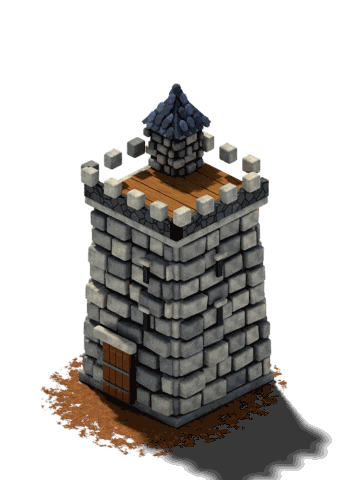
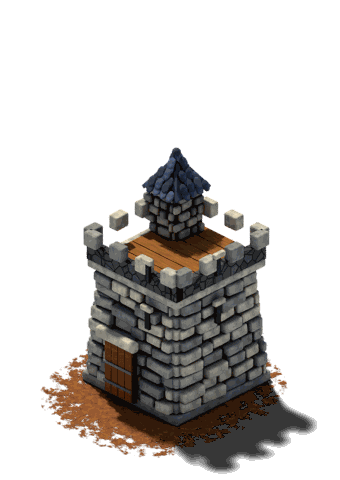
Proportions: lower towers and lookout, smaller 3D settlers
The small tower, big tower and lookout were modelled about twice as tall
as wide and towered over the houses; they are now about 1.5-2x a house's
height (banner anchors updated). 3D settler figures are drawn at 0.72 of
their render size, so a settler is about a third as tall as a small
house, as in Settlers 4.

Changed region(s): [[0.2353, 0.1562, 0.9706, 1.0]]

diff --git a/src/render/art3d.ts b/src/render/art3d.ts
@@ -44,6 +44,9 @@ export interface Art3d {
 /** Frames of the 3D mill sails over a quarter turn (`SAIL_FRAMES` in buildings.py); same canvas as the mill. */
 export const MILL_SAIL_FRAMES = 12;
 
+/** Scale of the 3D settler figures on screen: rendered large for detail, shown at S4 proportions (a settler about a third as tall as a small house). */
+export const SETTLER_3D_SCALE = 0.72;
+
 /** Construction stages rendered per building (`STAGES` in build.py): 0 stakes … 3 roof half on. */
 export const ART3D_STAGES = 4;
 /**
@@ -95,10 +98,10 @@ export const ART3D_STAGED = Object.keys(ART3D_BUILDINGS);
  * by buildings.py's `note_banner` when it renders); replaces `BANNERS` in `sprites.ts` under `?art=3d`.
  */
 export const ART3D_BANNERS: Record<string, { x: number; y: number }> = {
-  tower: { x: 3.2, y: -73.3 },
+  tower: { x: 3.2, y: -49.8 },
   castle: { x: 1.6, y: -101.7 },
   fortress: { x: 12.8, y: -67.9 },
-  bigtower: { x: 4.2, y: -89.3 },
+  bigtower: { x: 4.2, y: -58.0 },
 };
 /**
  * Live-effect anchors of 3D buildings, from the sprite anchor (printed by buildings.py's `note_fx`

diff --git a/src/render/renderer.ts b/src/render/renderer.ts
@@ -31,7 +31,7 @@ import { AnimalLayer } from './animals';
 import { setFrame, type Settler3d } from './settler3d';
 import { BODY_STAND, BODY_WORK, CARRY_AT } from './settlerArt';
 import { depthOf, HALF_H, HALF_W, toScreen, toTile } from './iso';
-import { ART3D_BANNERS, ART3D_STAGES, ART3D_YARDS, PILE_MAX } from './art3d';
+import { ART3D_BANNERS, ART3D_STAGES, ART3D_YARDS, PILE_MAX, SETTLER_3D_SCALE } from './art3d';
 
 /** Goods kinds shown on an open storage yard, and the ring they stand on (screen px from its centre). */
 const YARD_KINDS = 8;
@@ -1505,7 +1505,8 @@ export class GameRenderer {
         v.hat.visible = hat !== null;
         if (hat) setFrame(v.hat, hat);
         v.head.visible = v.arm.visible = false;
-        v.root.scale.x = 1;
+        // The 3D figure is rendered large for detail; shrunk to Settlers 4 proportions next to buildings.
+        v.root.scale.set(SETTLER_3D_SCALE, SETTLER_3D_SCALE);
         const away = s3d.carryBehind[shown];
         if (away !== v.armBehind) {
           v.armBehind = away;

diff --git a/art/blender/buildings.py b/art/blender/buildings.py
@@ -487,7 +487,7 @@ def build_tower():
     earth_pad((0.12, -0.18, 0), 0.82, 0.92, seed=21)
     lib.tag(0)
 
-    cx, cy, s0, s1, H = 0.05, 0.05, 1.22, 0.98, 1.75  # base width at the foot and the top, height
+    cx, cy, s0, s1, H = 0.05, 0.05, 1.12, 0.94, 1.15  # base width at the foot and the top, height
     corner_stakes(cx - s0 / 2, cx + s0 / 2, cy - s0 / 2, cy + s0 / 2)
     lib.tag(0, until=0)
 
@@ -2566,7 +2566,7 @@ def build_bigtower():
     corner_stakes(-0.8, 0.8, -0.8, 0.8)
     lib.tag(0, until=0)
 
-    cx, cy, s0, s1, H = 0.05, 0.05, 1.42, 1.22, 2.25
+    cx, cy, s0, s1, H = 0.05, 0.05, 1.36, 1.18, 1.45
     lib.box((cx, cy, 0.06), (s0 + 0.12, s0 + 0.12, 0.12), blocks[1], bevel=0.02)
     lib.tag(1)
     scaffold(cx - s0 / 2 - 0.1, cx + s0 / 2 + 0.1, cy - s0 / 2 - 0.1, cy + s0 / 2 + 0.1, 2.0, beam)
@@ -2627,7 +2627,7 @@ def build_lookout():
     corner_stakes(-0.6, 0.6, -0.6, 0.6)
     lib.tag(0, until=0)
 
-    H, b0, b1 = 2.05, 0.6, 0.34  # platform height, half-spread at the foot and at the top
+    H, b0, b1 = 1.3, 0.55, 0.34  # platform height, half-spread at the foot and at the top
     feet = [(-b0, -b0), (b0, -b0), (b0, b0), (-b0, b0)]
     heads = [(-b1, -b1), (b1, -b1), (b1, b1), (-b1, b1)]
     for (x, y) in feet:

diff --git a/CLAUDE.md b/CLAUDE.md
@@ -92,7 +92,7 @@ Three layers with one-way dependencies: `ui → render → sim`, plus `src/audio
 - **Chunk unloading** (what makes 1024×1024 hold): `unloadHiddenChunks` (twice a second) gives back the render data of built chunks out of view for `UNLOAD_AFTER_MS` — or of any hidden ones while more than `MAX_READY_CHUNKS` are built — down to `KEEP_CHUNKS`: ground layer, boulders (`boulders[c]`), trees, deposits, signs, field and path decals (their per-tile states reset so `syncChangedTiles` recreates them; `chunkSeen[c] = −1`), the territory `Graphics` (replaced by a fresh one, `territoryPending`), the fog mesh/texture/canvas and the water glints (`Effects.unloadChunk`); `chunkReady[c] = 0` and `ensureChunk` rebuilds on sight. Buildings and settlers stay. **Pixi frees less than it seems:** `mesh.destroy()` keeps the geometry and its GPU buffers, `graphics.destroy({ children: true })` keeps the drawing context — free them with `disposeMesh` (geometry `destroy(true)`) and `disposeLayer` (`destroy({ context: true })`). Anything per-chunk you add must be released in `unloadChunk` too.
 - **Lazy chunks** (what makes 512×512 start fast): `buildGround` only records heights; a chunk's ground mesh, boulders and territory are built by `ensureChunk` the first time it becomes visible (`chunkReady`), at most `CHUNK_BUILDS_PER_FRAME` per frame so a zoom-out never hitches. Tile objects (trees, deposits, fields) are synced only for visible chunks — `syncChangedTiles` leaves a hidden chunk's version stale and catches up when it scrolls in; territory for unbuilt chunks is deferred via `territoryPending`. Anything per-chunk you add must be built in `ensureChunk` and tolerate a chunk that was never built.
 - All art is procedural: painters in `sprites.ts` draw with Canvas 2D, and `SpriteAtlas` (`atlas.ts`) packs them into 2× resolution canvas pages (a new page starts when one fills; the last page is cut to the rows it uses) with `defaultAnchor` set per frame. Most buildings are described by a `Style` in `STYLES` (walls, roof, floors, decorations like chimney/well/pen) painted by `paintStyled`; only special shapes (castle, mill, tower…) have hand-written painters. Fields are flat decals added to their chunk's ground container. Building painters draw around the **footprint center as origin** and use the `P(dx, dy, z)` helper (tile-unit offsets plus pixel height); their canvas size and anchor live in `BUILDING_CANVAS`. Construction progress is shown by cropping the building texture from the top (`bottomPart`). To add a sprite, write a painter and register it in the `SpriteAtlas` constructor.
-- **3D art** (the default; `?art=classic` keeps the procedural painters below): `art/blender/build.py` (helpers in `lib.py`) builds models with bpy and renders them with an orthographic camera matching `iso.ts` (rot 60°/0/45°, world X = tile x, world Y = −tile y, `PX_PER_UNIT` logical px per tile unit, 2× resolution, Cycles, shadow catcher on a transparent background, palette written in sRGB and converted by `lib.lin`) into `public/art/3d`; run `npm run art:render [-- names]` (Blender 5.x on PATH). Each sprite keeps the size/anchor convention of the procedural sprite it replaces (`ART3D_SPRITES` in `art3d.ts` must match `SINGLE` in `build.py`). `main.ts` loads them (`loadArt3d`) and `SpriteAtlas` re-registers them under the procedural keys (`building:woodcutter`, `tree:*`, `deposit:*`, `ware:log`); **Settlers** (`art/blender/figures.py`, `npm run art:settlers`: renders on the CPU, ~15 min, caches each pose group in `art/.tmp/settlers-cache` so an interrupted run resumes, then `art/tools/quantize.py` (Pillow) turns the pages into 256-colour PNGs, ~6× smaller; one Blender at a time): one stocky figure on pivots (hips, shoulders, a tool grip per hand) posed per group — `hold:<tool>` (walk frames, then standing) for every `TOOLS` shape incl. `carry`, `work:<action>` (4 frames) for every `ACTIONS` entry; the tables at the top of figures.py mirror `animConfig.ts` (tool per action, arm angles), and swords/bows also show what is worn with them (shield, leather armour, quiver). Each frame renders twice: full colour, and a mask pass (material override with an emission of the object property `mask`: tunic, sleeves, shield face) that becomes the tintable copy; hats are a separate layer per `HAT_STYLES` style and direction (rendered with the body as a holdout). Frames are trimmed and shelf-packed into `settlers-<k>.png` pages; `settlers.json` has each frame's rect and anchor, the group tables, hats, `carryAt`/`carryBehind` and `rankY`. `settler3d.ts` turns it into textures once (`buildSettler3d`, `ImageSource` per page); `syncSettlers` then draws body = full frame, tunic sprite = tint frame (owner's colour for everyone under `?art=3d`, as in S4), hat = hat layer (profession colour), all 8 directions painted (no mirroring), swapping textures with `setFrame` (copies the anchor). A new profession needs no rendering unless it brings a new tool or action. Read hand positions from the evaluated depsgraph, and call `view_layer.update()` before parenting parts to pivots, or offsets double. The look follows Settlers 4 (reference: in-game shots at settlers4-hd.com, kept out of the repo): `mat_stones` (Voronoi fieldstone), `mat_tiles` (terracotta), `mat_grain` (wood, thatch, bark, earth), `mat_leaves`, `apply_ao` (base colour × AO in every material) and `clean_alpha` post-processing (saturation, contrast, unsharp); buildings stand on a trodden-earth `pad` (solid core, then a noisy alpha fringe from a per-vertex `edge` attribute plus two noises, so the earth breaks up into the game's grass instead of ending in a line); `transform_apply` must keep location (`location=False`), or origins jump to the world origin. **Animals** (`art/blender/animals.py`, `npm run art:animals`, CPU, 4 threads): one sheet per kind, `animal-<kind>.png`, 8 rows in `DIRS` order × `ANIMAL_COLUMNS` (walk 0..3, stand, graze), cells = `ANIMAL_CELLS` in `animalArt.ts`, quantised to 256 colours; loading is optional, a kind without a sheet uses the procedural painter (`paintAnimal`), which is also the default art. `AnimalLayer` (`render/animals.ts`) draws one sprite per animal among the objects, only on screen and (fog on) only where the local player has sight. Style notes from the original (and what we deliberately do not copy, e.g. outlines) live in `docs/ART-STYLE.md`; reference screenshots stay in the git-ignored `examples/`. Quarry stone is `lib.spire` columns with `mat_crystal`. Building models beyond the woodcutter live in `art/blender/buildings.py` (sawmill, stonecutter, tower, house_large; shared helpers such as `log_cabin`, `plank_roof`, `stakes`, `timber_frame` are reached through `__main__`, i.e. build.py), modelled after close-ups of the original buildings (git-ignored `examples/ref-<type>.png`), with `stone_course` (rugged blocks of mixed tones over a dark core), `quoins` (staggered corner stones), `coping_line` (wall-top stones), `plank_walls`, `panel_slope` (riveted plank panels) and `scale_roof` (rounded slate scales or square terracotta tiles), plus general roof pieces — `place_on` (orient an object by two axes), `tile_face` (scales/tiles over any quad or triangle roof face, kept inside its edges), `hip_roof`, `cone_tiles` —, `round_tower`, `stepped_gable_x/_y`, `rivet_vault` (riveted furnace), mine pieces (`rock_pad`, `hill`, `adit`, `rails`, `cart`) and `scale_scene` (the medium house is the old three-block house model scaled to 2×2 by parenting everything to a scaled empty); eyecatchers use the 1-tile `DECOR` canvas (80×120); `ART3D_BUILDINGS` in `art3d.ts` lists every 3D building with its canvas (= `BUILDING_CANVAS`, = `SINGLE` in build.py), and all of them have stages. Live-effect anchors of 3D buildings (chimney smoke, oven glow, the mill's sail hub — the sails stay the game's rotating sprite) are recorded by `note_fx` while rendering and copied into `ART3D_FX`, which `Effects.anchorsOf` prefers to `buildingFxAnchors` under `?art=3d`. The 3D warehouse is an open paved yard (`ART3D_YARDS`): `syncYard` draws its stock on the platform — the `YARD_KINDS` most plentiful goods, one `pile:<res>:<n>` each, round the ring (pile sprites live in the building's `front` container, which chunk unloading keeps). A 3D military building records where its banner pole stands (`note_banner` prints it while rendering) in `ART3D_BANNERS`, which overrides `BANNERS` under `?art=3d` (tower, bigtower, fortress, castle; the lookout has no garrison and shows only the roof flag). Every building type is now 3D; the military/HQ models use `battlements` (merlons along chosen edges), `square_keep` (faced block with quoins), `slit`, `gate` and `scaffold` (stage-1 poles). The mill's sails under `?art=3d` are pre-rendered too: `buildings.render_mill_sails` (`npm run art:render -- millsails`) renders `MILL_SAIL_FRAMES` frames of a quarter turn on the mill's own canvas into the strip `millsails.png`; the atlas registers them as `sails3d:<k>` and `Effects` flips through them by the sails' angle instead of rotating the flat `fx:sails` sprite. HTML icons (`buildingIcon`, `wareIcon`, `settlerIcon` in `atlas.ts`) use the 3D images when loaded, cropped to their opaque bounds. **Ground textures** (`art/textures/ground.py`, `npm run art:ground`, runs in Blender for numpy): `KINDS` maps every ground kind to a generator and a period (grass 8 tiles, the rest 4 — every ground diamond plus the transition overlays must fit one atlas page); `ground.json` lists `kinds` with their periods, plus the `fields` decal strips (`fields-<crop>.png`, a 66×40 frame per growth stage, registered as `field:<crop>:<stage>`) and the `paths` strips (`path-<level>.png`, 80×44 frames, `path:<level>:<v>`), all generated here too. Trees and ground props come from `art/blender/nature.py` (`-- trees`, `-- props`): `tree:0..ART3D_TREES-1` (three conifers, three broadleaf; the renderer picks `hash % atlas.treeVariants`) and `prop:<k>` (`ART3D_PROPS`), which `scatterProps` places on about one grass tile in `PROP_EVERY` (by tile hash, skipping occupied tiles) inside the chunk's ground layer, so they are render-only, sit under everything standing and unload with the layer. Grass is combed tapered strokes along a slowly swaying direction field over band-limited broad swells of light and shade; a texture periodic over `PERIOD`×`PERIOD` tiles, sliced into diamonds exactly as `quadOf` samples them; the atlas registers them as `ground:<kind>:<v>` (`groundPeriod`), the renderer picks variant (x mod p) + p·(y mod p) so tiles join seamlessly, and transition overlays keep the procedural ragged mask filled with the texture. **Goods** (`art/blender/goods.py`): `GOODS` maps every resource, in `RESOURCES` order, to an item builder (one ware at ~0.3 tile, lying or standing around the origin) and a pile layout (`rows`, `layers`, `grid`, `spread`, `heap`, `bundle`: `PILE_MAX` placements, a pile of n uses the first n); it renders `piles-<res>.png` (strip of `PILE_MAX` frames of `PILE` size) and `wares.png` + `wares.json` (one carried ware per resource, centred, no shadow). They render on the CPU (tiny frames; keeps the GPU free). A new resource needs a `GOODS` entry.
+- **3D art** (the default; `?art=classic` keeps the procedural painters below): `art/blender/build.py` (helpers in `lib.py`) builds models with bpy and renders them with an orthographic camera matching `iso.ts` (rot 60°/0/45°, world X = tile x, world Y = −tile y, `PX_PER_UNIT` logical px per tile unit, 2× resolution, Cycles, shadow catcher on a transparent background, palette written in sRGB and converted by `lib.lin`) into `public/art/3d`; run `npm run art:render [-- names]` (Blender 5.x on PATH). Each sprite keeps the size/anchor convention of the procedural sprite it replaces (`ART3D_SPRITES` in `art3d.ts` must match `SINGLE` in `build.py`). `main.ts` loads them (`loadArt3d`) and `SpriteAtlas` re-registers them under the procedural keys (`building:woodcutter`, `tree:*`, `deposit:*`, `ware:log`); **Settlers** (`art/blender/figures.py`, `npm run art:settlers`: renders on the CPU, ~15 min, caches each pose group in `art/.tmp/settlers-cache` so an interrupted run resumes, then `art/tools/quantize.py` (Pillow) turns the pages into 256-colour PNGs, ~6× smaller; one Blender at a time): one stocky figure on pivots (hips, shoulders, a tool grip per hand) posed per group — `hold:<tool>` (walk frames, then standing) for every `TOOLS` shape incl. `carry`, `work:<action>` (4 frames) for every `ACTIONS` entry; the tables at the top of figures.py mirror `animConfig.ts` (tool per action, arm angles), and swords/bows also show what is worn with them (shield, leather armour, quiver). Each frame renders twice: full colour, and a mask pass (material override with an emission of the object property `mask`: tunic, sleeves, shield face) that becomes the tintable copy; hats are a separate layer per `HAT_STYLES` style and direction (rendered with the body as a holdout). Frames are trimmed and shelf-packed into `settlers-<k>.png` pages; `settlers.json` has each frame's rect and anchor, the group tables, hats, `carryAt`/`carryBehind` and `rankY`. `settler3d.ts` turns it into textures once (`buildSettler3d`, `ImageSource` per page); `syncSettlers` then draws body = full frame, tunic sprite = tint frame (owner's colour for everyone under `?art=3d`, as in S4), hat = hat layer (profession colour), all 8 directions painted (no mirroring), swapping textures with `setFrame` (copies the anchor). A new profession needs no rendering unless it brings a new tool or action. Read hand positions from the evaluated depsgraph, and call `view_layer.update()` before parenting parts to pivots, or offsets double. The look follows Settlers 4 (reference: in-game shots at settlers4-hd.com, kept out of the repo): `mat_stones` (Voronoi fieldstone), `mat_tiles` (terracotta), `mat_grain` (wood, thatch, bark, earth), `mat_leaves`, `apply_ao` (base colour × AO in every material) and `clean_alpha` post-processing (saturation, contrast, unsharp); buildings stand on a trodden-earth `pad` (solid core, then a noisy alpha fringe from a per-vertex `edge` attribute plus two noises, so the earth breaks up into the game's grass instead of ending in a line); `transform_apply` must keep location (`location=False`), or origins jump to the world origin. **Animals** (`art/blender/animals.py`, `npm run art:animals`, CPU, 4 threads): one sheet per kind, `animal-<kind>.png`, 8 rows in `DIRS` order × `ANIMAL_COLUMNS` (walk 0..3, stand, graze), cells = `ANIMAL_CELLS` in `animalArt.ts`, quantised to 256 colours; loading is optional, a kind without a sheet uses the procedural painter (`paintAnimal`), which is also the default art. `AnimalLayer` (`render/animals.ts`) draws one sprite per animal among the objects, only on screen and (fog on) only where the local player has sight. Style notes from the original (and what we deliberately do not copy, e.g. outlines) live in `docs/ART-STYLE.md`; reference screenshots stay in the git-ignored `examples/`. Quarry stone is `lib.spire` columns with `mat_crystal`. Building models beyond the woodcutter live in `art/blender/buildings.py` (sawmill, stonecutter, tower, house_large; shared helpers such as `log_cabin`, `plank_roof`, `stakes`, `timber_frame` are reached through `__main__`, i.e. build.py), modelled after close-ups of the original buildings (git-ignored `examples/ref-<type>.png`), with `stone_course` (rugged blocks of mixed tones over a dark core), `quoins` (staggered corner stones), `coping_line` (wall-top stones), `plank_walls`, `panel_slope` (riveted plank panels) and `scale_roof` (rounded slate scales or square terracotta tiles), plus general roof pieces — `place_on` (orient an object by two axes), `tile_face` (scales/tiles over any quad or triangle roof face, kept inside its edges), `hip_roof`, `cone_tiles` —, `round_tower`, `stepped_gable_x/_y`, `rivet_vault` (riveted furnace), mine pieces (`rock_pad`, `hill`, `adit`, `rails`, `cart`) and `scale_scene` (the medium house is the old three-block house model scaled to 2×2 by parenting everything to a scaled empty); eyecatchers use the 1-tile `DECOR` canvas (80×120); `ART3D_BUILDINGS` in `art3d.ts` lists every 3D building with its canvas (= `BUILDING_CANVAS`, = `SINGLE` in build.py), and all of them have stages. Live-effect anchors of 3D buildings (chimney smoke, oven glow, the mill's sail hub — the sails stay the game's rotating sprite) are recorded by `note_fx` while rendering and copied into `ART3D_FX`, which `Effects.anchorsOf` prefers to `buildingFxAnchors` under `?art=3d`. The 3D warehouse is an open paved yard (`ART3D_YARDS`): `syncYard` draws its stock on the platform — the `YARD_KINDS` most plentiful goods, one `pile:<res>:<n>` each, round the ring (pile sprites live in the building's `front` container, which chunk unloading keeps). A 3D military building records where its banner pole stands (`note_banner` prints it while rendering) in `ART3D_BANNERS`, which overrides `BANNERS` under `?art=3d` (tower, bigtower, fortress, castle; the lookout has no garrison and shows only the roof flag). Every building type is now 3D; the military/HQ models use `battlements` (merlons along chosen edges), `square_keep` (faced block with quoins), `slit`, `gate` and `scaffold` (stage-1 poles). The mill's sails under `?art=3d` are pre-rendered too: `buildings.render_mill_sails` (`npm run art:render -- millsails`) renders `MILL_SAIL_FRAMES` frames of a quarter turn on the mill's own canvas into the strip `millsails.png`; the atlas registers them as `sails3d:<k>` and `Effects` flips through them by the sails' angle instead of rotating the flat `fx:sails` sprite. 3D settler figures are rendered large for detail and drawn at `SETTLER_3D_SCALE` (art3d.ts) so they keep S4 proportions next to buildings (a settler about a third as tall as a small house); keep towers about 1.5–2× a house's height. HTML icons (`buildingIcon`, `wareIcon`, `settlerIcon` in `atlas.ts`) use the 3D images when loaded, cropped to their opaque bounds. **Ground textures** (`art/textures/ground.py`, `npm run art:ground`, runs in Blender for numpy): `KINDS` maps every ground kind to a generator and a period (grass 8 tiles, the rest 4 — every ground diamond plus the transition overlays must fit one atlas page); `ground.json` lists `kinds` with their periods, plus the `fields` decal strips (`fields-<crop>.png`, a 66×40 frame per growth stage, registered as `field:<crop>:<stage>`) and the `paths` strips (`path-<level>.png`, 80×44 frames, `path:<level>:<v>`), all generated here too. Trees and ground props come from `art/blender/nature.py` (`-- trees`, `-- props`): `tree:0..ART3D_TREES-1` (three conifers, three broadleaf; the renderer picks `hash % atlas.treeVariants`) and `prop:<k>` (`ART3D_PROPS`), which `scatterProps` places on about one grass tile in `PROP_EVERY` (by tile hash, skipping occupied tiles) inside the chunk's ground layer, so they are render-only, sit under everything standing and unload with the layer. Grass is combed tapered strokes along a slowly swaying direction field over band-limited broad swells of light and shade; a texture periodic over `PERIOD`×`PERIOD` tiles, sliced into diamonds exactly as `quadOf` samples them; the atlas registers them as `ground:<kind>:<v>` (`groundPeriod`), the renderer picks variant (x mod p) + p·(y mod p) so tiles join seamlessly, and transition overlays keep the procedural ragged mask filled with the texture. **Goods** (`art/blender/goods.py`): `GOODS` maps every resource, in `RESOURCES` order, to an item builder (one ware at ~0.3 tile, lying or standing around the origin) and a pile layout (`rows`, `layers`, `grid`, `spread`, `heap`, `bundle`: `PILE_MAX` placements, a pile of n uses the first n); it renders `piles-<res>.png` (strip of `PILE_MAX` frames of `PILE` size) and `wares.png` + `wares.json` (one carried ware per resource, centred, no shadow). They render on the CPU (tiny frames; keeps the GPU free). A new resource needs a `GOODS` entry.
 - Player colours live in `PLAYER_COLORS` (`sprites.ts`); the only per-player atlas variants are `flag:<player>` (the occupied-building flag, set on the roof at `SpriteAtlas.topOf` — the highest drawn pixel in the middle half of the building sprite; hidden where a banner is) and `banner:<player>` (`paintBanner`: the owner's banner with an eagle on a crossbar over military buildings, at `BANNERS`) (fighters wear their owner's colour as a tint, see below). A fighter's level is drawn as a `chevrons:<level>` sprite above the head, and arrows (`World.shots`) as arcs in the `shots` Graphics layer above the objects. Territory chunks dim land that is not the local player's and draw every player's border as in Settlers 4: a post topped with a cube in the player's colour two per border edge, at ¼ and ¾ (`drawBorder`). Settler views whose settler died are destroyed on the next sync; building flags follow ownership changes, and so do roof banners (`BANNERS` in `sprites.ts`: where the `flag:<owner>` sprite sits on every military building — building painters must not paint owner colours themselves). Duelling pairs are drawn at `FIGHT_SPOTS` offsets so simultaneous fights at one door stay apart.
 
 - **Fog rendering** (local player, off with `?fog=off`): a `fog` container above `objects` and the arrow layer holds, per chunk, a soft-edged mesh: a (CHUNK+2)² canvas with one pixel per tile (one-tile margin) whose alpha is the tile's darkness (unexplored 1, explored out of sight 0.42), stretched over the chunk's height-raised tile corners with linear filtering, so darkness fades across tiles as in Settlers 4. `syncFog` (every 150 ms) compares each visible chunk's states (margin included, `fogPrev`) and redraws the canvas only on change; the mesh is rebuilt when the chunk's heights change. It also hides static objects standing on unexplored tiles (and `addStatic` hides new ones there). Other players' settlers are drawn only where the local player has sight; the minimap and the building info panel follow the same rules, and buildings under unexplored fog cannot be selected.
